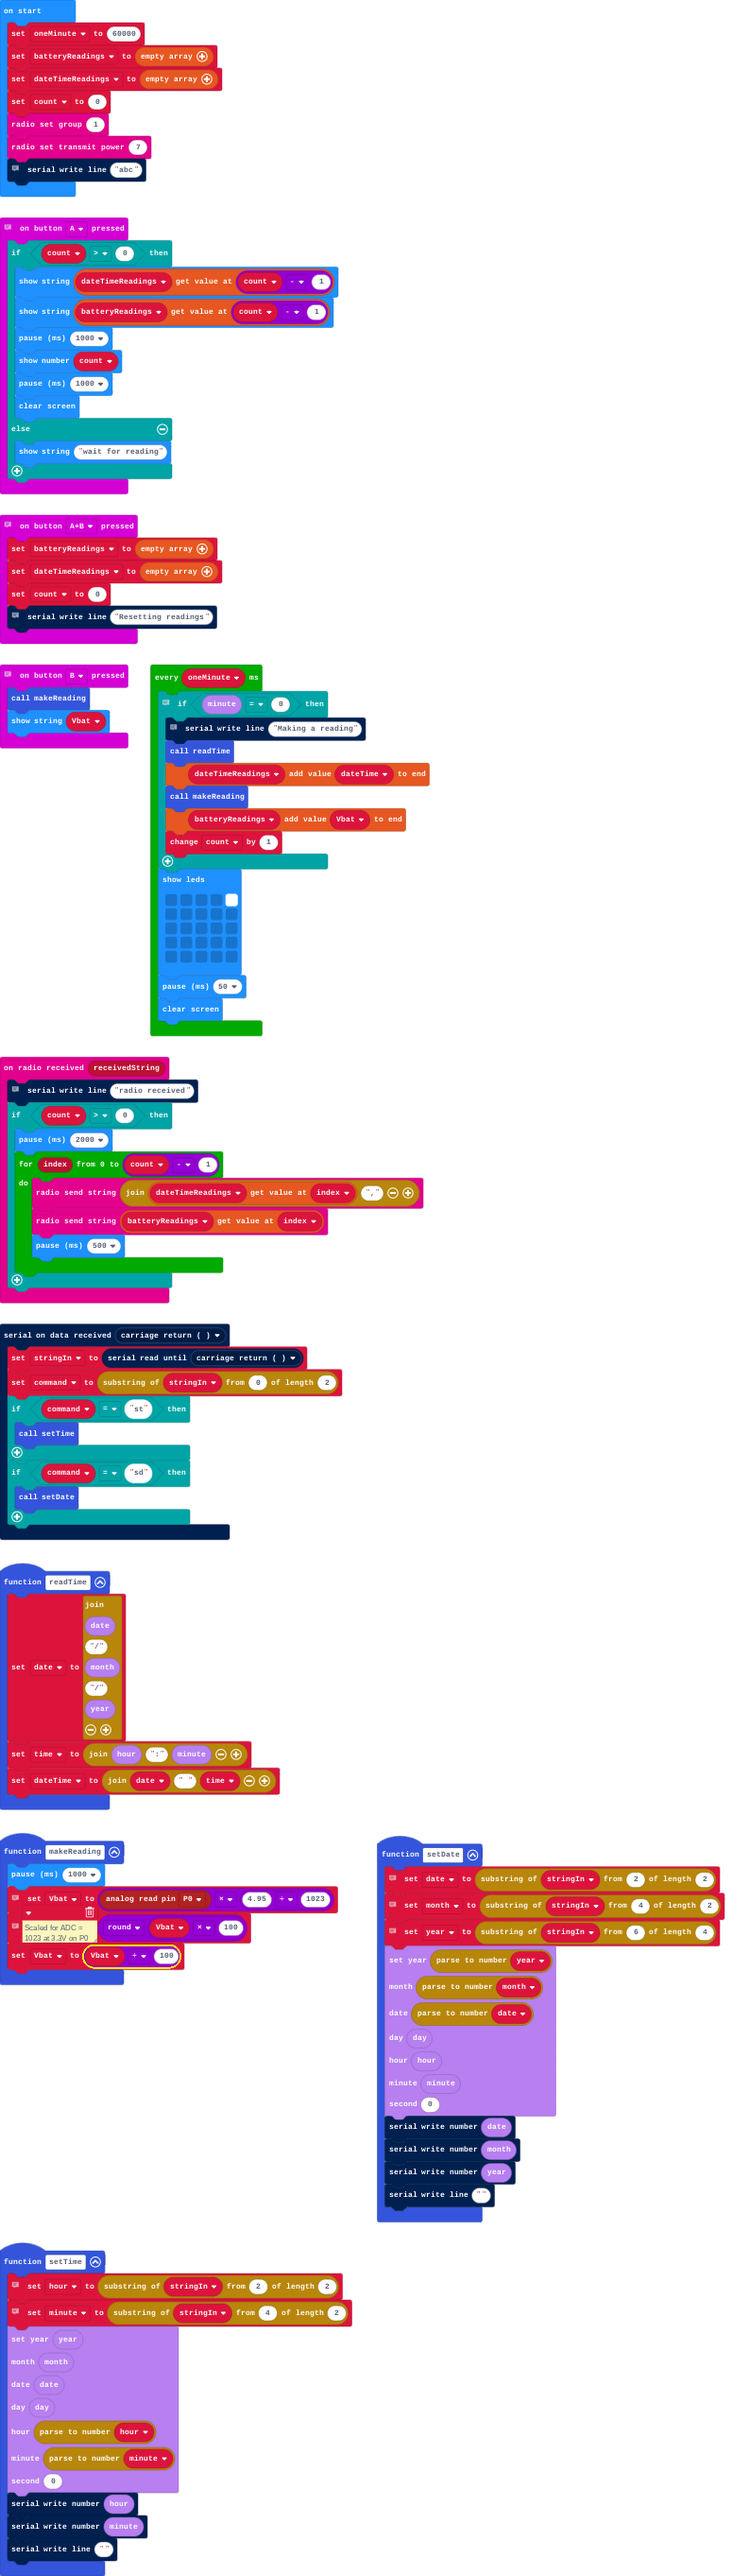
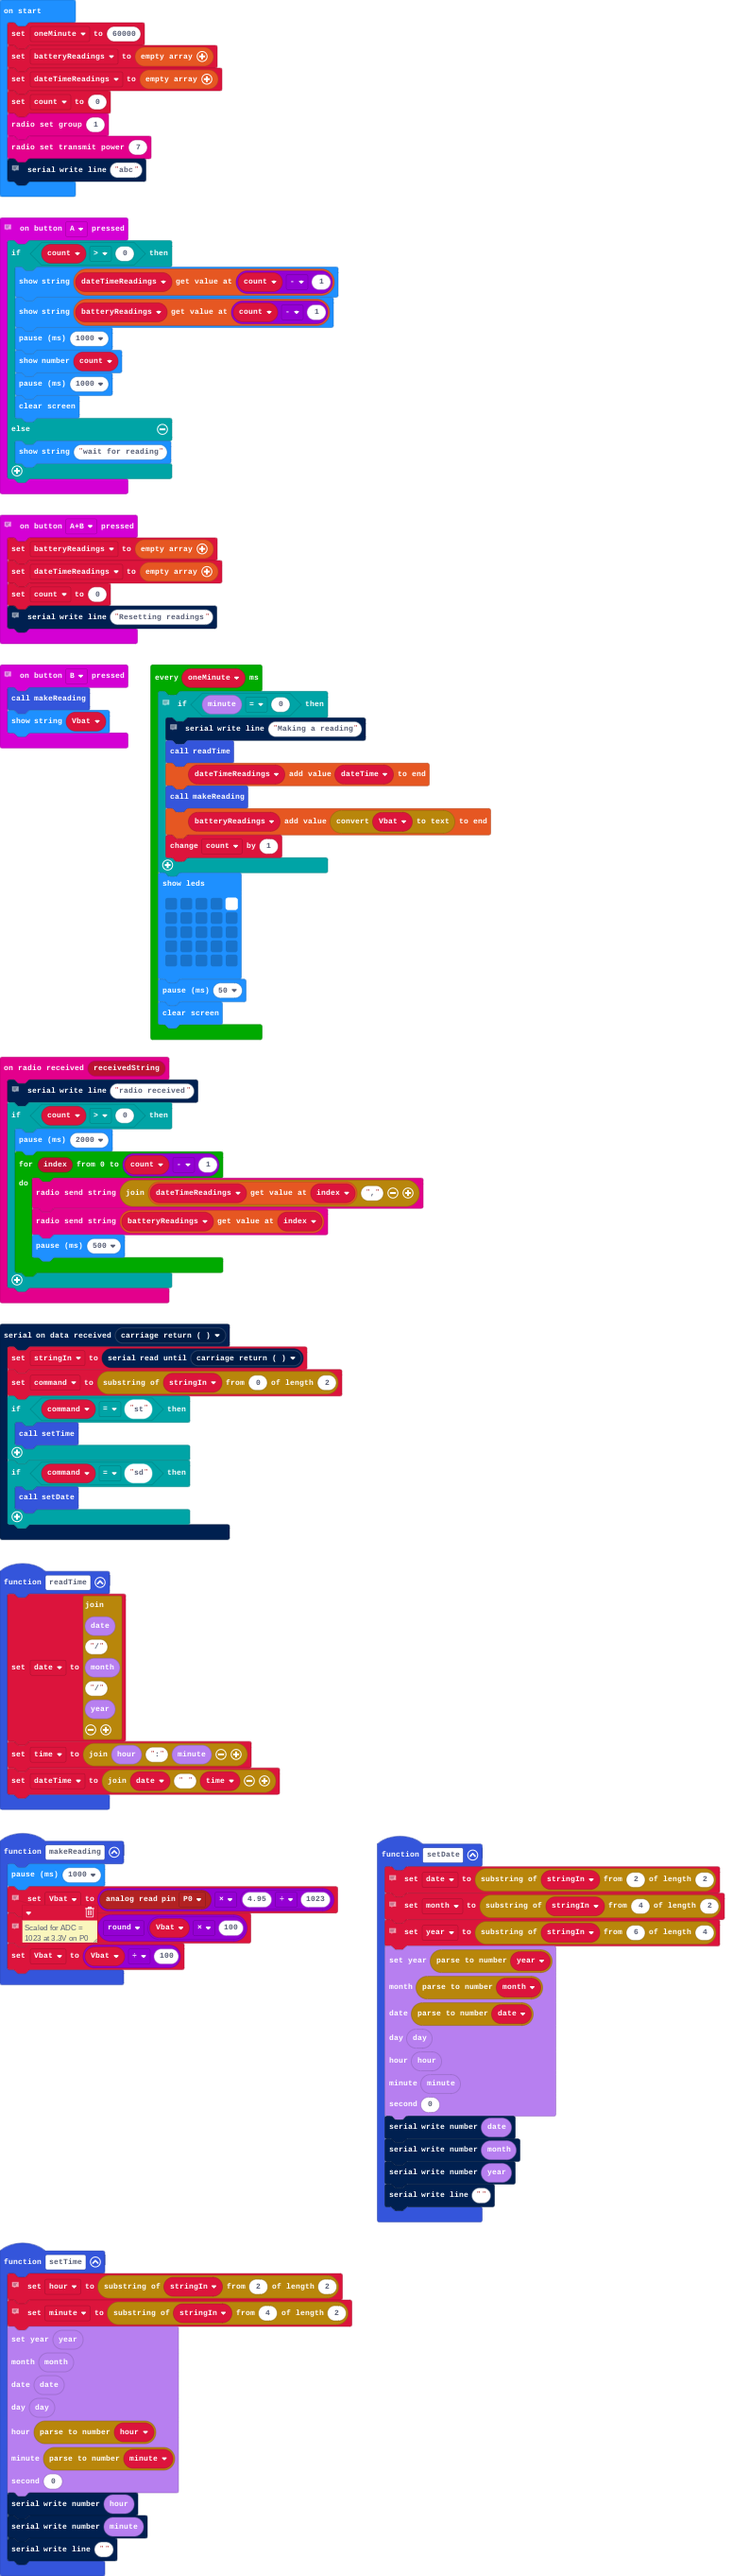
Update main.blocks, main.ts

Changed region(s): [[0.2119, 0.3119, 0.6658, 0.4055]]

diff --git a/main.ts b/main.ts
@@ -110,7 +110,7 @@ let time = ""
 let date = ""
 let count = 0
 let dateTimeReadings: string[] = []
-let batteryReadings: number[] = []
+let batteryReadings: string[] = []
 let oneMinute = 60000
 batteryReadings = []
 dateTimeReadings = []
@@ -127,7 +127,7 @@ loops.everyInterval(oneMinute, function () {
         readTime()
         dateTimeReadings.push(dateTime)
         makeReading()
-        batteryReadings.push(Vbat)
+        batteryReadings.push(convertToText(Vbat))
         count += 1
     }
     basic.showLeds(`
